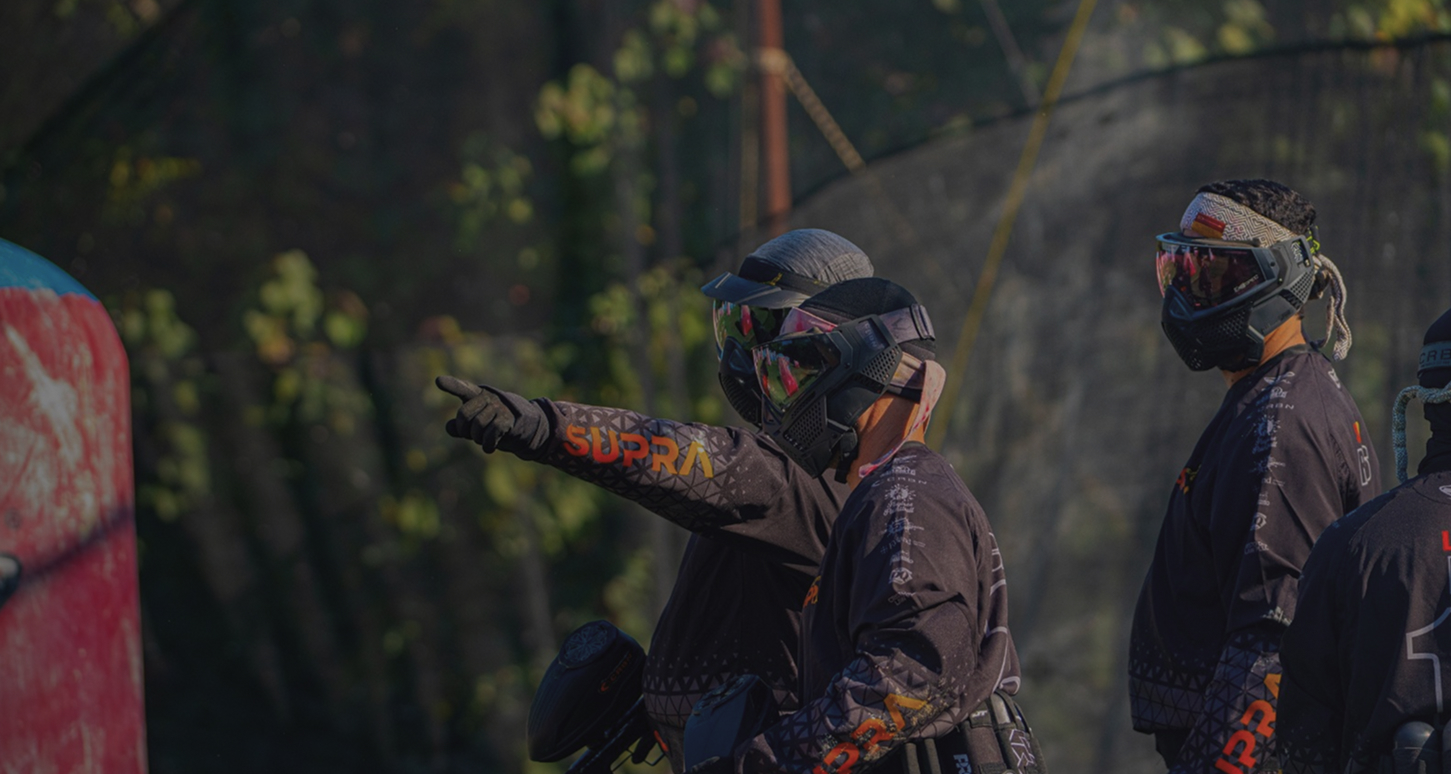
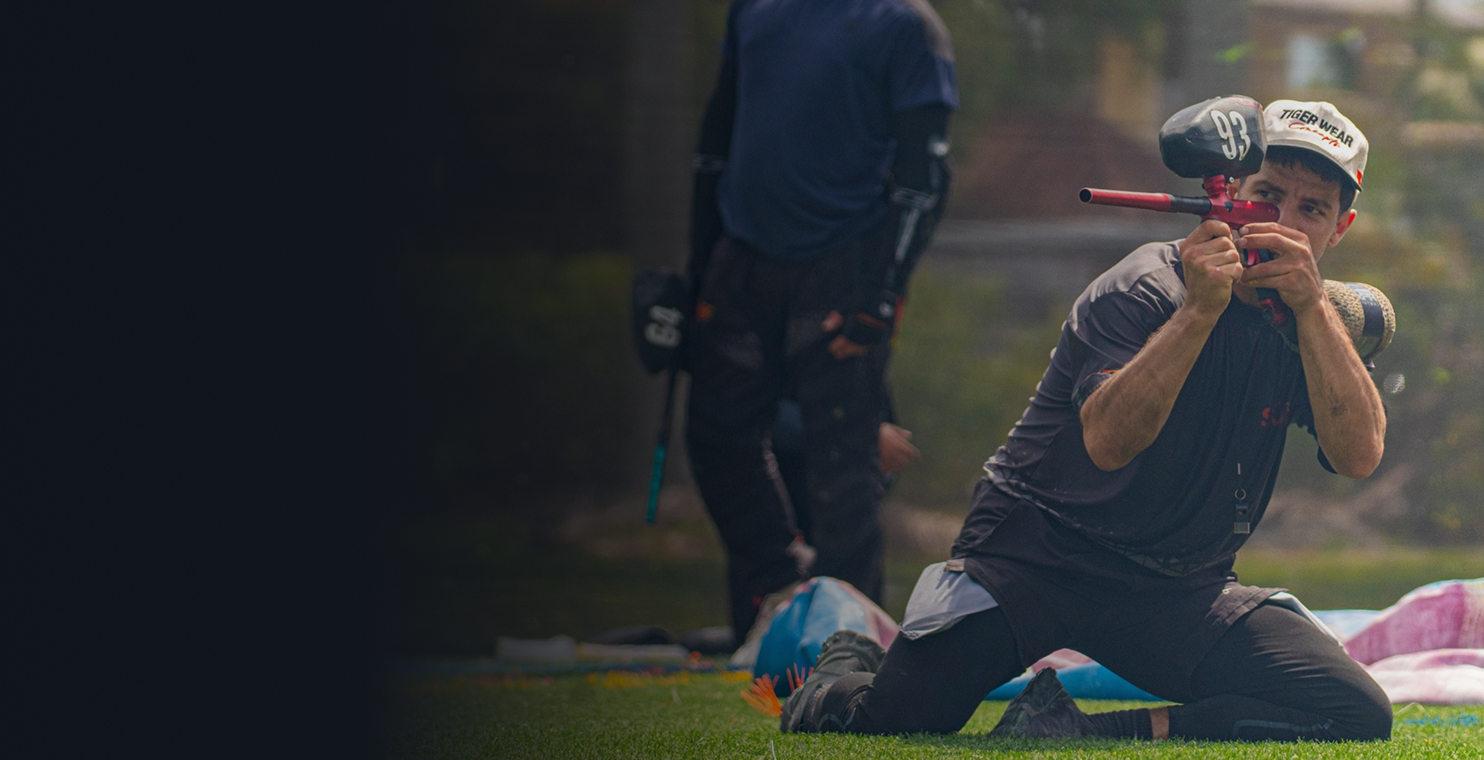
ghpages push

diff --git a/index.html b/index.html
@@ -101,8 +101,9 @@
           <div class="row align-items-center g-4">
             <div class="col-lg-6">
               <h2 id="coach-title" class="h2"><span data-i18n="coach.prefix">Led by professionals who</span> <span class="text-red" data-i18n="coach.emphasis">live the game</span></h2>
-              <p class="lead" data-i18n="coach.body">Ceelos Cortes (X-Factor) leads the SFR program with years of experience in competitive paintball and player development. His approach blends discipline, creativity, and mentorship — helping athletes unlock their full potential both on and off the field.</p>
-              <a class="btn btn-special" href="https://www.instagram.com/ceelosmovez/?hl=en"><h6 data-i18n="cta.followInstagram">Follow on Instagram</h6></a>
+              <p class="lead" data-i18n="coach.body">Ceelos Cortes (X-Factor) leads the SFR program with years of experience in competitive paintball and player development.</p>
+              <!-- <a class="btn btn-special" href="https://www.instagram.com/ceelosmovez/?hl=en"><h6 data-i18n="cta.followInstagram">Follow on Instagram</h6></a> -->
+              <img src="ceelos_mobile.jpg" alt="Ceelos Cortes" class="coach-mobile-img d-lg-none mt-4 img-fluid">
             </div>
             
           </div>
@@ -213,6 +214,65 @@
           </div>
         </div>
       </section>
+
+
+      <!-- Program Wins -->
+      <section id="program-wins" aria-labelledby="wins-title" class="white-bg py-5">
+        <div class="container">
+          <div class="row mb-5">
+            <div class="col-lg-8">
+              <h2 id="why-title" class="h2 mb-3" data-i18n="wins.title">PROGRAM WINS</h2>
+              <p style='color: #192a4b;' class="lead description" data-i18n="wins.description">Our private field is where players build confidence, chemistry, and consistency. Designed for training, competition, and growth, it's the home of South Florida Rise.</p>
+            </div>
+          </div>
+          <div class="row g-4">
+            <div class="col-md-4">
+              <div class="win-card">
+                <img src="win1.png" alt="MVPS Southeastern Championship" class="win-image img-fluid">
+                <div class="win-overlay">
+                  <div class="win-badge win-badge-first">
+                    <span class="win-medal">1st</span>
+                    <div class="win-badge-text">
+                      <div class="win-team" data-i18n="wins.achievement1.team">SUPRA FILIUS</div>
+                      <div class="win-division" data-i18n="wins.achievement1.division">MVPS 2025 - D5 XBALL</div>
+                    </div>
+                  </div>
+                 </div>
+              </div>
+            </div>
+            <div class="col-md-4">
+              <div class="win-card">
+                <img src="win2.png" alt="NXL Lone Star Major" class="win-image img-fluid">
+                <div class="win-overlay">
+                  <div class="win-badge win-badge-third">
+                    <span class="win-medal">3rd</span>
+                    <div class="win-badge-text">
+                      <div class="win-team" data-i18n="wins.achievement1.team">SUPRA FILIUS</div>
+                      <div class="win-division" data-i18n="wins.achievement1.division">D5 XBALL</div>
+                    </div>
+                  </div>
+                  
+                </div>
+              </div>
+            </div>
+            <div class="col-md-4">
+              <div class="win-card">
+                <img src="win2.png" alt="Supra Paintball 2nd Place" class="win-image img-fluid">
+                <div class="win-overlay">
+                  <div class="win-badge win-badge-second">
+                    <span class="win-medal">2nd</span>
+                    <div class="win-badge-text">
+                      <div class="win-team" data-i18n="wins.achievement1.team">SUPRA FILIUS</div>
+                      <div class="win-division" data-i18n="wins.achievement1.division">D5 XBALL</div>
+                    </div>
+                  </div>
+                </div>
+              </div>
+            </div>
+          </div>
+        </div>
+      </section>
+
 
       <!-- Campus: image and description split with CTA -->
       <section id="campus" aria-labelledby="campus-title" class="white-bg py-5">

diff --git a/styles.css b/styles.css
@@ -281,21 +281,162 @@ body {
 /* Hero background image with brand-tinted overlay */
 .hero-bg {
   background:
-   linear-gradient(rgb(0 0 0 / 1%), rgb(3 7 14 / 48%)), url(bg.jpg) bottom center / cover no-repeat
+   linear-gradient(rgb(0 0 0 / 1%), rgb(3 7 14 / 48%)), url(bg.jpg) top right / cover no-repeat
 }
 
 /* Intro gradient (deep black center with blue vignettes left/right) */
 .intro-bg {
-  background:
-    radial-gradient(60% 80% at -10% 50%, rgba(26,42,75,0.8), transparent 60%),
-    radial-gradient(60% 80% at 110% 50%, rgba(26,42,75,0.8), transparent 60%),
-    #000000;
+  background: linear-gradient(rgb(0 0 0 / 56%), rgb(3 7 14 / 84%)), url(ceelos_collagebg.png) top center / cover no-repeat;
 }
 
 #coach-spotlight.coach-bg {
   background:
-    linear-gradient(rgba(0,0,0,0.35), rgba(0,0,0,0.55)),
     url('ceelos.jpg') center center / cover no-repeat;
+}
+
+/* Hide background image on mobile */
+@media (max-width: 991.98px) {
+  #coach-spotlight.coach-bg {
+    background: none;
+  }
+}
+
+/* Mobile image styling */
+.coach-mobile-img {
+  width: 100%;
+  height: auto;
+  border-radius: 8px;
+}
+
+/* Program Wins Section */
+
+#why-title {
+  color: #192a4b;
+}
+.win-card {
+  position: relative;
+  overflow: hidden;
+  border-radius: 8px;
+  aspect-ratio: 3 / 4;
+  background: #000;
+}
+
+.win-image {
+  width: 100%;
+  height: 100%;
+  object-fit: cover;
+}
+
+.win-overlay {
+  position: absolute;
+  top: 0;
+  left: 0;
+  right: 0;
+  bottom: 0;
+  display: flex;
+  flex-direction: column;
+  justify-content: space-between;
+  padding: 1.5rem;
+  background: linear-gradient(to bottom, rgba(0,0,0,0.3) 0%, rgba(0,0,0,0) 30%, rgba(0,0,0,0) 70%, rgba(0,0,0,0.7) 100%);
+}
+
+.win-badge {
+  display: flex;
+  align-items: center;
+  gap: 1rem;
+  padding: 0.75rem 1rem;
+  border-radius: 8px;
+  margin-bottom: auto;
+  max-width: fit-content;
+}
+
+.win-badge-first {
+  background: rgba(26, 42, 75, 0.95);
+}
+
+.win-badge-second {
+  background: rgba(128, 128, 128, 0.95);
+}
+
+.win-badge-third {
+  background: rgba(128, 128, 128, 0.95);
+}
+
+.win-medal {
+  display: flex;
+  align-items: center;
+  justify-content: center;
+  width: 3rem;
+  height: 3rem;
+  border-radius: 50%;
+  background: #FFD700;
+  color: #000;
+  font-weight: bold;
+  font-size: 1.5rem;
+  flex-shrink: 0;
+}
+
+.win-badge-second .win-medal {
+  background: #C0C0C0;
+}
+
+.win-badge-third .win-medal {
+  background: #CD7F32;
+  color: #fff;
+}
+
+.win-badge-text {
+  display: flex;
+  flex-direction: column;
+}
+
+.win-team {
+  font-weight: bold;
+  font-size: 1.25rem;
+  color: #fff;
+  line-height: 1.2;
+}
+
+.win-division {
+  font-size: 0.875rem;
+  color: rgba(255, 255, 255, 0.9);
+  line-height: 1.2;
+}
+
+.win-title {
+  font-weight: bold;
+  font-size: 1.5rem;
+  color: #fff;
+  text-transform: uppercase;
+  margin-bottom: 0.5rem;
+  text-shadow: 2px 2px 4px rgba(0,0,0,0.8);
+}
+
+.win-subtitle {
+  font-size: 0.875rem;
+  color: rgba(255, 255, 255, 0.95);
+  text-transform: uppercase;
+  text-shadow: 1px 1px 3px rgba(0,0,0,0.8);
+}
+
+@media (max-width: 767.98px) {
+  .win-overlay {
+    padding: 1rem;
+  }
+  
+  .win-title {
+    font-size: 1.25rem;
+  }
+  
+  .win-team {
+    font-size: 1.1rem;
+  }
+  
+  .win-medal {
+    width: 2.5rem;
+    height: 2.5rem;
+    font-size: 1.25rem;
+  }
 }
 
 .btn-brand {
@@ -309,7 +450,7 @@ body {
 }
 
 #hero {
-  height: 70vh;
+  height: 80vh;
     display: flex;
     margin-top: -80px;
     align-items: flex-end;
@@ -318,7 +459,8 @@ body {
 .text-red { color: var(--brand-red); }
 
 #intro {
-  min-height: 30vh;
+  margin: 30px;
+  min-height: 40vh;
   align-items: center;
   display: flex;
   justify-content: center;
@@ -350,7 +492,7 @@ p {
 #coach-spotlight {
   display: flex;
   align-items: center;
-  height: 440px;
+  min-height: 440px;
 }
 
 /* --- Why We Train Section --- */

diff --git a/script.js b/script.js
@@ -49,7 +49,7 @@ const translations = {
     // Coach
     'coach.prefix': 'Led by professionals who',
     'coach.emphasis': 'live the game',
-    'coach.body': 'Ceelos Cortes (X-Factor) leads the SFR program with years of experience in competitive paintball and player development. His approach blends discipline, creativity, and mentorship — helping athletes unlock their full potential both on and off the field.',
+    'coach.body': 'Ceelos Cortes (X-Factor) leads the SFR program with years of experience in competitive paintball and player development.',
 
     // Why We Train
     'why.title': 'Why we train',
@@ -61,6 +61,21 @@ const translations = {
     'why.community.description': 'Train alongside peers and mentors who raise the bar.',
     'why.performance.title': 'Performance',
     'why.performance.description': 'Compete better under pressure through repeatable habits.',
+
+    // Program Wins
+    'wins.title': 'PROGRAM WINS',
+    'wins.description': 'Out member team have won multiple championships and awards.',
+    'wins.achievement1.title': 'MVPS WINNERS',
+    'wins.achievement1.subtitle': 'SOUTHEASTERN 20 MVPS 25 CHAMPIONSHIP',
+    'wins.achievement1.team': 'SUPRA FILIUS',
+    'wins.achievement1.division': 'D5 XBALL',
+    'wins.achievement2.title': '2025 NXL LONE STAR MAJOR',
+    'wins.achievement2.subtitle': 'TEAM PROGRAM',
+    'wins.achievement2.team': 'SUPRA FILIUS',
+    'wins.achievement2.division': 'D5 XBALL - 3RD PLACE',
+    'wins.achievement3.title': 'Congratulations',
+    'wins.achievement3.team': '@suprapaintball',
+    'wins.achievement3.division': '2nd Place',
 
     // Schedule
     'schedule.title': 'Training & field schedule',
@@ -232,6 +247,21 @@ const translations = {
     'why.community.description': 'Entrena junto a compañeros y mentores que elevan el nivel.',
     'why.performance.title': 'Rendimiento',
     'why.performance.description': 'Compite mejor bajo presión con hábitos repetibles.',
+
+    // Victorias del Programa
+    'wins.title': 'VICTORIAS DEL PROGRAMA',
+    'wins.description': 'Nuestro campo privado es donde los jugadores desarrollan confianza, química y consistencia. Diseñado para entrenamiento, competencia y crecimiento, es el hogar de South Florida Rise.',
+    'wins.achievement1.title': 'GANADORES MVPS',
+    'wins.achievement1.subtitle': 'CAMPEONATO SOUTHEASTERN 20 MVPS 25',
+    'wins.achievement1.team': 'SUPRA FILIUS',
+    'wins.achievement1.division': 'D5 XBALL',
+    'wins.achievement2.title': '2025 NXL LONE STAR MAJOR',
+    'wins.achievement2.subtitle': 'PROGRAMA DEL EQUIPO',
+    'wins.achievement2.team': 'SUPRA FILIUS',
+    'wins.achievement2.division': 'D5 XBALL - 3ER LUGAR',
+    'wins.achievement3.title': 'Felicitaciones',
+    'wins.achievement3.team': '@suprapaintball',
+    'wins.achievement3.division': '2do Lugar',
 
     // Horario
     'schedule.title': 'Horario de entrenamiento y campo',
